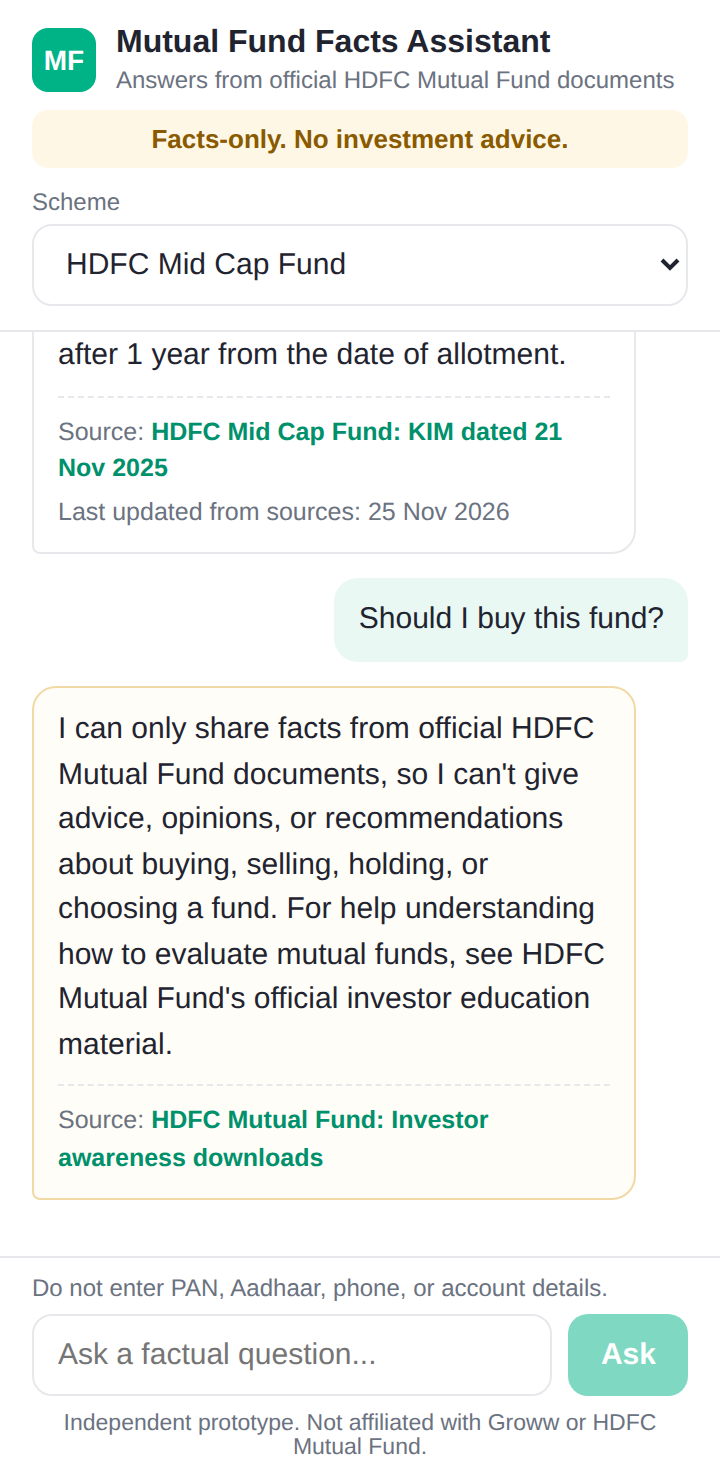
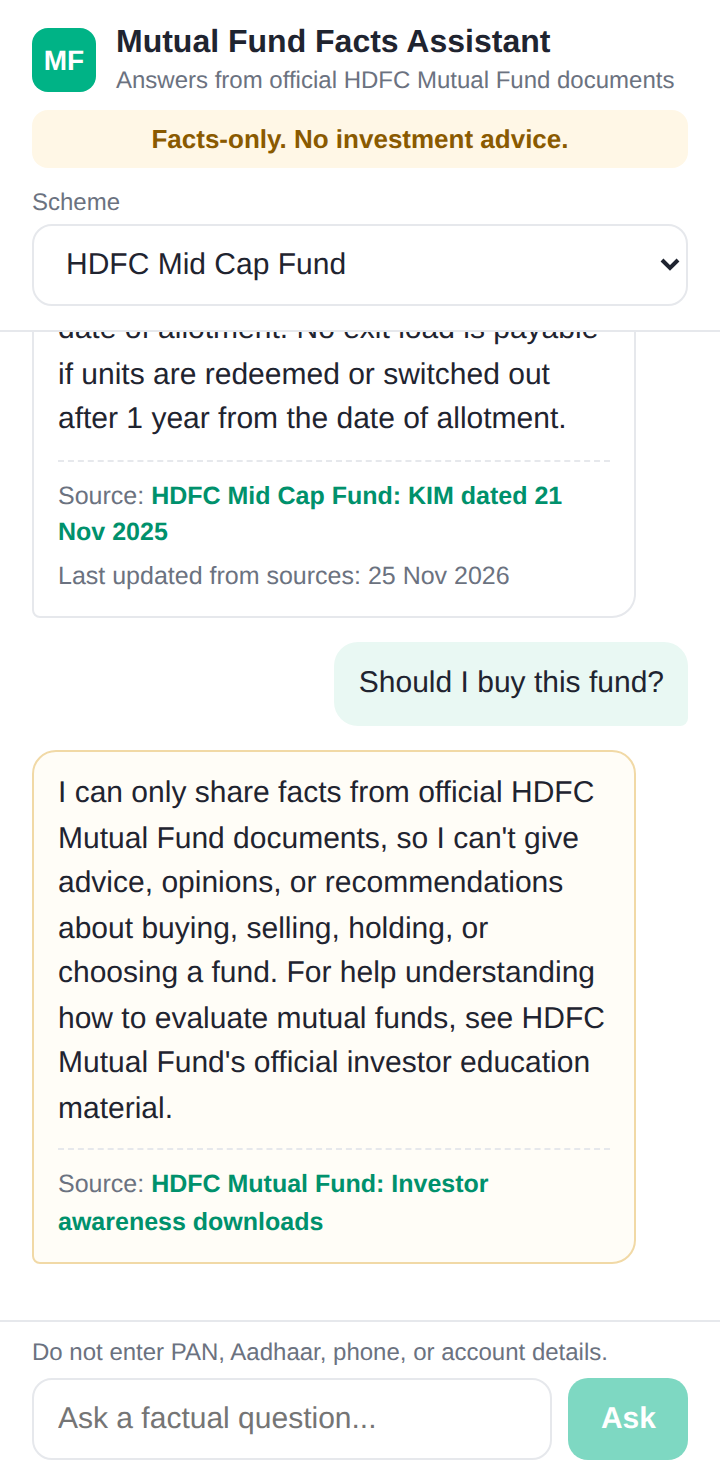
Remove the independence notice from the page footer
At the owner request. The notice stays in the README and config/disclaimer.md.

Claude-Session: https://claude.ai/code/session_0162jJQmseNpJeyTScv4eEcK

Changed region(s): [[0.0306, 0.2176, 0.9778, 0.9946]]

diff --git a/app/globals.css b/app/globals.css
@@ -48,4 +48,3 @@ body {
 .row input:focus { outline: 2px solid var(--green); border-color: transparent; }
 .row button { padding: 0 16px; border: 0; border-radius: 10px; background: var(--green); color: #fff; font-weight: 600; font-size: 15px; cursor: pointer; }
 .row button:disabled { opacity: 0.5; cursor: default; }
-.foot { font-size: 11.5px; color: var(--muted); text-align: center; margin: 8px 0 0; }

diff --git a/app/page.tsx b/app/page.tsx
@@ -144,7 +144,6 @@ export default function Home() {
           />
           <button type="submit" disabled={busy || !input.trim()}>Ask</button>
         </form>
-        <p className="foot">Independent prototype. Not affiliated with Groww or HDFC Mutual Fund.</p>
       </div>
     </main>
   );

diff --git a/config/disclaimer.md b/config/disclaimer.md
@@ -10,7 +10,7 @@ These lines are shown on the screen at all times and are repeated in the README.
 
 > Do not enter PAN, Aadhaar, phone, or account details.
 
-**Independence notice (page footer):**
+**Independence notice (README only; removed from the page footer on 26 Nov 2026 at the owner's request):**
 
 > Independent prototype. Not affiliated with Groww or HDFC Mutual Fund.
 
